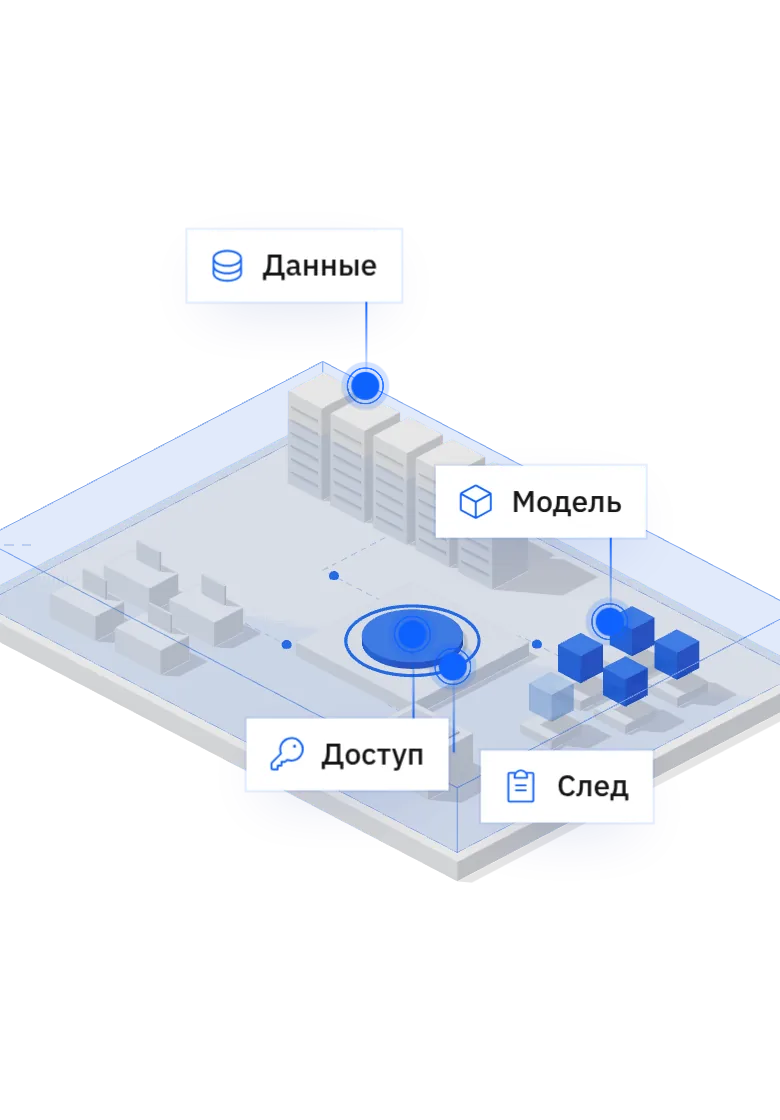
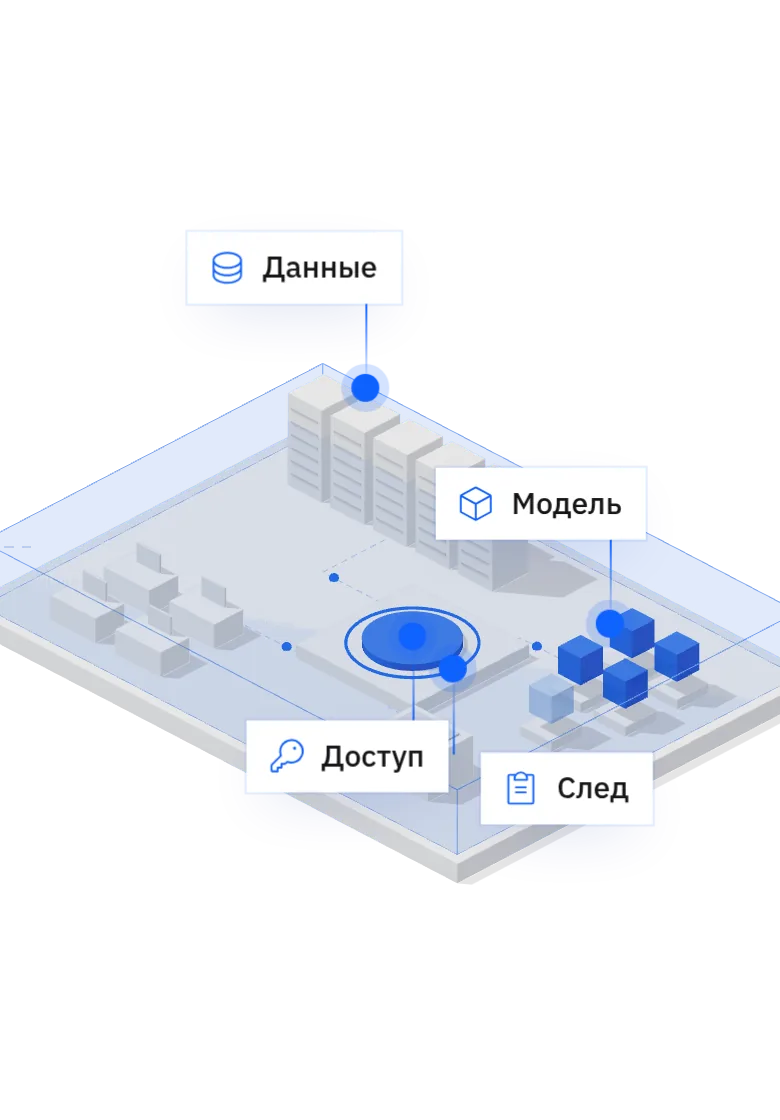
Подзаголовок про серверы компании, блок «Вместо чего», партнёры

diff --git a/index.html b/index.html
@@ -4,9 +4,9 @@
 <meta charset="utf-8">
 <meta name="viewport" content="width=device-width, initial-scale=1">
 <title>Атриум: приватность определяет периметр</title>
-<meta name="description" content="Атриум запускает предиктивные и генеративные модели на внутренних серверах компании. Открытые и собственные, с ролями, журналом действий и доступом по токену.">
+<meta name="description" content="Атриум ставится на сервер компании и запускает на нём модели, от прогнозов до языковых. Без облака и чужого API.">
 <meta property="og:type" content="website"><meta property="og:locale" content="ru_RU"><meta property="og:site_name" content="Атриум">
-<meta property="og:title" content="Атриум: приватность определяет периметр"><meta property="og:description" content="Атриум запускает предиктивные и генеративные модели на внутренних серверах компании. Открытые и собственные, с ролями, журналом действий и доступом по токену."><meta property="og:url" content="https://atrium-ai.ru/">
+<meta property="og:title" content="Атриум: приватность определяет периметр"><meta property="og:description" content="Атриум ставится на сервер компании и запускает на нём модели, от прогнозов до языковых. Без облака и чужого API."><meta property="og:url" content="https://atrium-ai.ru/">
 <meta property="og:image" content="https://atrium-ai.ru/og.png"><meta property="og:image:width" content="1200"><meta property="og:image:height" content="630"><meta property="og:image:alt" content="Атриум: модели на внутренних серверах компании">
 <meta name="twitter:card" content="summary_large_image">
 <link rel="canonical" href="https://atrium-ai.ru/">
@@ -36,7 +36,7 @@
   <div class="w copy">
     <h1>Приватность определяет периметр. <span class="a">Модель выбирает компания.</span></h1>
     <div>
-      <p class="sub">Атриум запускает предиктивные и генеративные модели на внутренних серверах компании. Открытые и собственные, с ролями, журналом действий и доступом по токену.</p>
+      <p class="sub">Атриум ставится на сервер компании и запускает на нём модели, от прогнозов до языковых. Без облака и чужого API.</p>
       <div class="ctas"><a class="btn primary" href="mailto:info@atrium-ai.ru">Написать нам</a><a class="btn" href="it.html">Для ИТ и безопасности</a></div>
     </div>
   </div>
@@ -62,6 +62,17 @@
       <div class="part"><i class="ic i-model"></i><h3>Модель</h3><p>Выбирает компания: открытую или собственную, предиктивную или генеративную.</p></div>
       <div class="part"><i class="ic i-key"></i><h3>Доступ</h3><p>Каждая команда работает в своём пространстве. Программы обращаются к модели по токену с лимитом запросов.</p></div>
       <div class="part"><i class="ic i-log"></i><h3>След</h3><p>Журнал показывает, кто запустил модель, кто выдал права и кто остановил старую версию.</p></div>
+    </div>
+  </div>
+</section>
+
+<section id="instead" class="w" aria-labelledby="h-instead">
+  <div class="grid">
+    <div class="sec-head"><h2 id="h-instead">Вместо чего</h2></div>
+    <div class="sec-body roles">
+      <div class="role"><h3>Вместо облака и чужого API</h3><p>Данные и запросы остаются на серверах компании. Интернет не нужен.</p></div>
+      <div class="role"><h3>Вместо программы, привязанной к железу</h3><p>Атриум ставится на серверы на Linux. Сервер и программу можно выбрать независимо друг от друга.</p></div>
+      <div class="role"><h3>Вместо сборки своими силами</h3><p>Запуск моделей из браузера, роли и журнал уже готовы. Их не нужно писать и поддерживать самим.</p></div>
     </div>
   </div>
 </section>

diff --git a/partners-integrators.html b/partners-integrators.html
@@ -37,7 +37,7 @@
     <p class="crumb"><a href="index.html">Главная</a> / Партнёрам / Интеграторам и вендорам ПО</p>
     <div class="txt">
     <h1>Основа для ИИ-проектов там, где данные нельзя выносить</h1>
-    <p class="sub">Для интеграторов, которые ставят ИИ в контуре заказчика, и для вендоров операционных систем и Kubernetes.</p>
+    <p class="sub">Для интеграторов, которые ставят ИИ в контуре заказчика, для вендоров ИИ-помощников и для вендоров операционных систем и Kubernetes.</p>
     <div class="ctas"><a class="btn primary" href="mailto:info@atrium-ai.ru">Написать нам</a></div>
     </div>
     <div class="scene" data-view="apps" role="img" aria-label="Схема: программы заказчика обращаются к моделям через Атриум внутри периметра">
@@ -69,9 +69,10 @@
 
 <section id="types" class="w" aria-labelledby="h-types">
   <div class="grid">
-    <div class="sec-head"><h2 id="h-types">Два вида партнёрства</h2></div>
+    <div class="sec-head"><h2 id="h-types">Три вида партнёрства</h2></div>
     <div class="sec-body roles">
       <div class="role"><h3>Интеграторам</h3><p>Продажа и внедрение Атриума у своих заказчиков. Скидка на лицензии, клиент закрепляется за тем, кто первым сообщил о нём, пилот у заказчика вместе с командой Атриума.</p></div>
+      <div class="role"><h3>Вендорам ИИ-помощников</h3><p>Атриум запускает модели на серверах заказчика, продукт партнёра обращается к ним по адресу и токену. Партнёр делает помощников, Атриум отвечает за модели под ними.</p></div>
       <div class="role"><h3>Вендорам ОС и Kubernetes</h3><p>Совместимость проверяем вместе с вендором и по итогам публикуем протокол испытаний. Дальше совместные продажи.</p></div>
     </div>
   </div>

diff --git a/it.html b/it.html
@@ -71,7 +71,8 @@
     <table class="stable">
       <thead><tr><th>Что</th><th>Как</th><th>Статус</th></tr></thead>
       <tbody>
-        <tr><td>Где работает</td><td>Kubernetes на Linux-серверах компании. Интернет не нужен</td><td><span class="st yes">Есть</span></td></tr>
+        <tr><td>Где работает</td><td>Linux-серверы компании, в Kubernetes компании. Интернет не нужен</td><td><span class="st yes">Есть</span></td></tr>
+        <tr><td>Поставка вместе с Kubernetes</td><td>Для серверов, где Kubernetes ещё нет: Атриум и Kubernetes ставятся одним комплектом</td><td><span class="st">IV кв. 2026</span></td></tr>
         <tr><td>Какие модели</td><td>Предиктивные (прогнозы, оценки, классификация), открытые и собственные. На серверах с видеокартами и без</td><td><span class="st yes">Есть</span></td></tr>
         <tr><td>Генеративные модели</td><td>Движки в поставке есть, прогон на стенде впереди</td><td><span class="st work">В проверке</span></td></tr>
         <tr><td>Форматы моделей</td><td>scikit-learn проверен. XGBoost, LightGBM, ONNX, PyTorch и TensorFlow проверяются</td><td><span class="st work">В проверке</span></td></tr>
